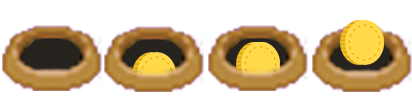
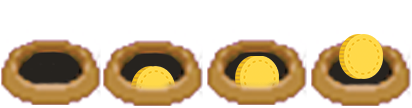
css and design adjustments

diff --git a/app.js b/app.js
@@ -130,6 +130,7 @@ function displayCoin() {
 function hideCoin() {
   hole.forEach((hole) => {
     hole.classList.remove("coin");
+    hole.classList.remove("coin-hit");
   });
 }
 
@@ -150,7 +151,7 @@ function calculateLives(clickedHole) {
 }
 
 function displayBuyLifeBtn() {
-  if (totalCoins >= 5 && totalLives < 3) {
+  if (totalCoins >= 2 && totalLives < 3) {
     buyLifeBtn.style.visibility = "visible";
     buyLifeBtnLabel.style.visibility = "visible";
   } else {
@@ -161,7 +162,7 @@ function displayBuyLifeBtn() {
 
 function buyLife() {
   console.log("wants to buy one life");
-  totalCoins = totalCoins - 5;
+  totalCoins = totalCoins - 2;
   coins.innerText = totalCoins;
   totalLives = totalLives + 1;
   displayLives();
@@ -202,8 +203,7 @@ function calculateScore(clickedHole) {
   // on click on a mole : +1 point
   console.log("clicked on: " + clickedHole.classList);
   if (clickedHole.classList.contains("mole")) {
-    clickedHole.classList.remove("mole", "mole-hide");
-    clickedHole.classList.add("mole-hit");
+    clickedHole.classList.replace("mole", "mole-hit");
     console.log("new class list: " + clickedHole.classList);
     finalScore = finalScore + 1;
     score.innerText = finalScore;
@@ -227,6 +227,7 @@ function calculateScore(clickedHole) {
 
 function calculateCoins(clickedHole) {
   if (clickedHole.classList.contains("coin")) {
+    clickedHole.classList.replace("coin", "coin-hit");
     console.log("it's a coin!");
     totalCoins = totalCoins + 1;
     coins.innerText = totalCoins;

diff --git a/styles/game.css b/styles/game.css
@@ -13,7 +13,6 @@ html {
   padding: 0px;
   background: black;
   height: 100vh;
-  /* border: 3px solid red */
 }
 
 a {
@@ -121,13 +120,13 @@ a {
   animation: mole 1.5s steps(4);
 }
 
-.mole-hide {
+/* .mole-hide {
   background: url("../img/moles-sprite.png");
   width: 103px;
   height: 108px;
   background-position: 412px;
   animation: mole-hide 1.5s steps(4);
-}
+} */
 
 .mole-hit {
   background: url("../img/mole-hit.png");
@@ -142,6 +141,13 @@ a {
   height: 108px;
   background-position: 103px;
   animation: coin 1.5s steps(4);
+}
+
+.coin-hit {
+  background: url("../img/coin-hit.png");
+  background-repeat: no-repeat;
+  width: 103px;
+  height: 108px;
 }
 
 #score {
@@ -196,6 +202,7 @@ a {
 .restart-btn a {
   text-decoration: none;
   color: black;
+  cursor: pointer;
 }
 
 .game-over h1 {
@@ -203,6 +210,14 @@ a {
   color: white;
   font-size: 60px;
   margin-bottom: 10px;
+}
+
+.game-over p {
+  font-size: 20px;
+}
+
+.hidden {
+  display: none;
 }
 
 /* ANIMATE MOLES */

diff --git a/game.html b/game.html
@@ -24,7 +24,7 @@
 
         <div class="modes-btn">
             <button id="more-lives-btn">BUY 1 EXTRA <i class="fas fa-heart"></i></button>
-            <label id="more-life-label" for="more-lives-btn">costs 5 (</label>
+            <label id="more-life-label" for="more-lives-btn">costs 2 (</label>
             <!-- <button id="super-hammer-btn">SUPER HAMMER</button> -->
         </div>
         
